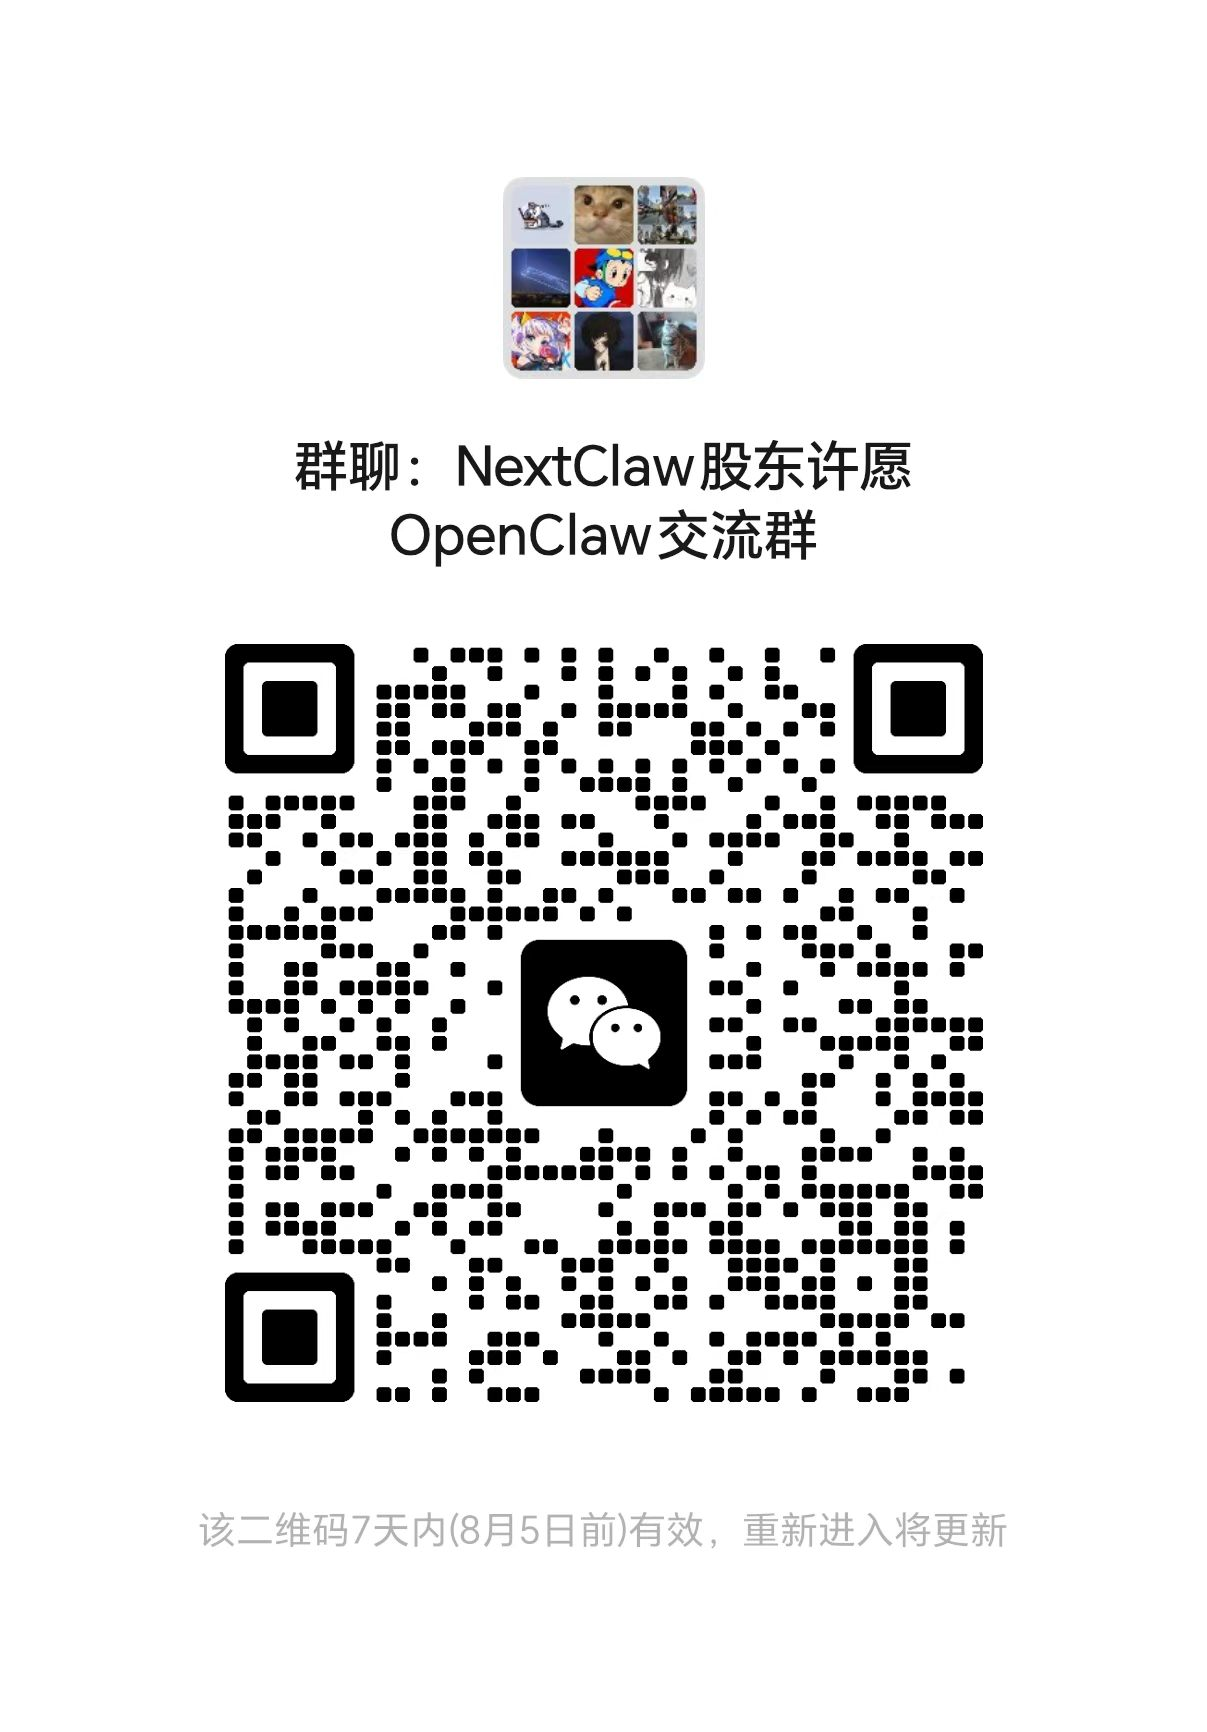
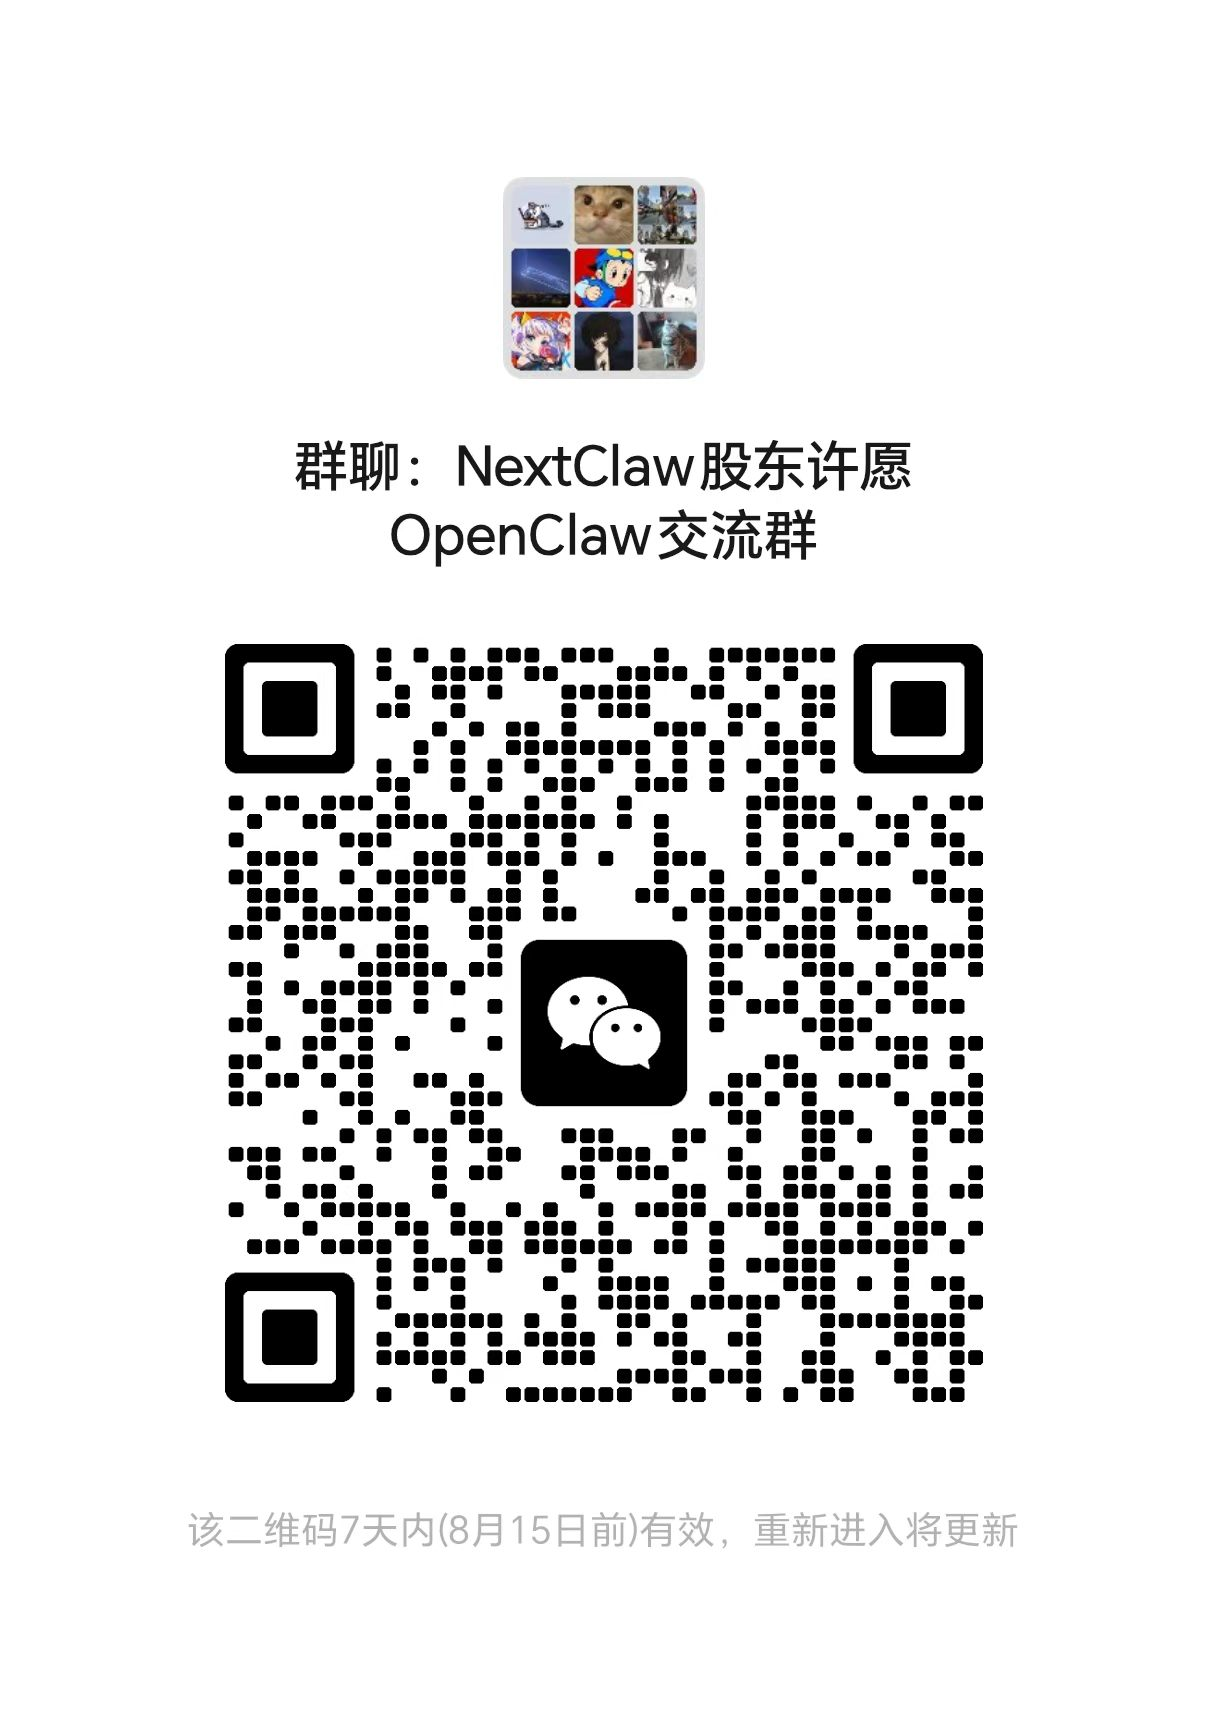
chore(website): refresh WeChat group QR code

diff --git a/apps/landing/src/shared/lib/landing-content/landing-route.utils.ts b/apps/landing/src/shared/lib/landing-content/landing-route.utils.ts
@@ -38,7 +38,7 @@ export const LINKS: Record<'github' | 'npm' | 'discord' | 'wechatGroupImage', st
   github: 'https://github.com/Peiiii/nextclaw',
   npm: 'https://www.npmjs.com/package/nextclaw',
   discord: 'https://discord.gg/j4Skbgye',
-  wechatGroupImage: '/contact/nextclaw-contact-wechat-group-2026-07-29.png',
+  wechatGroupImage: '/contact/nextclaw-contact-wechat-group-2026-08-08.png',
   docs: {
     en: 'https://docs.nextclaw.io/en/',
     zh: 'https://docs.nextclaw.io/zh/'

diff --git a/docs/logs/v0.26.68-wechat-group-qr-refresh/README.md b/docs/logs/v0.26.68-wechat-group-qr-refresh/README.md
@@ -1,0 +1,40 @@
+# v0.26.68 微信群二维码更新
+
+## 迭代完成说明
+
+- 使用 2026-08-08 用户提供的最新微信群二维码替换现有对外联系素材。
+- 通过仓库统一入口 `pnpm run assets:update-wechat-qr` 同步 GitHub README 稳定资源、官网稳定镜像和官网日期化缓存资源，未引入第二套更新逻辑。
+- GitHub 中英文 README 继续引用 `images/contact/nextclaw-contact-wechat-group.png`；官网改为引用 `/contact/nextclaw-contact-wechat-group-2026-08-08.png`。
+- 旧日期资源保留为未引用的历史素材，避免破坏已发布页面或外部缓存中的旧链接。
+
+## 测试/验证/验收方式
+
[1 lines of base64/hex data omitted]
+- 人工查看同步后的 GitHub 稳定资源，确认二维码、群名称和有效期说明完整，没有裁切或损坏。
+- 检查 `README.md`、`README.zh-CN.md` 与官网内容配置，确认 GitHub 使用稳定路径、官网使用 2026-08-08 日期化路径。
+- `pnpm --filter @nextclaw/landing tsc` 通过。
+- `pnpm --filter @nextclaw/landing lint` 通过（0 个错误；`apps/landing/src/main.ts` 保留 2 个与本次无关的既有文件长度警告）。
+- `pnpm --filter @nextclaw/landing build` 通过；仅有既有 Browserslist 数据过期提示。
+- 通过隔离的 Vite preview 对 `http://127.0.0.1:5196/zh/` 做真实页面冒烟：首页返回 200，二维码资源返回 200、类型为 `image/png`，浏览器确认图片加载完成、原始尺寸为 `1207 × 1732`、页面渲染尺寸为 `160 × 160`。
+
+## 发布/部署方式
+
+- 本轮本地仓库资源、引用和迭代记录随当前本地提交纳入版本历史；未推送、未部署线上官网。
+- 后续完成相应提交、推送与官网发布后，GitHub README 和官网才会公开使用本次二维码。
+- 不涉及数据库迁移、运行时更新或 NPM 包发布。
+
+## 用户/产品视角的验收步骤
+
+1. 打开 GitHub 中文或英文 README 的微信群区域，确认展示新的“NextClaw 股东许愿 OpenClaw 交流群”二维码。
+2. 打开官网中文页面的社区区域，确认二维码能正常加载，且请求地址包含 `nextclaw-contact-wechat-group-2026-08-08.png`。
+3. 在二维码标注的有效期内（2026-08-15 前）使用微信扫码，确认能够进入对应群聊流程。
+
+## 可维护性总结汇总
+
+- 复用仓库既有二维码同步脚本作为唯一资源 owner，一次生成 GitHub 稳定资源、官网稳定镜像和官网日期化资源，避免人工多点复制导致漂移。
+- 生产源码仅替换一条资源路径，新增 1 行、删除 1 行、净增 0 行；未新增分支、抽象、组件或运行链路。
+- 新增文件仅为日期化静态图片与本次迭代记录，属于缓存刷新和交付留痕，不增加生产逻辑维护面。
+
+## NPM 包发布记录
+
+- 不涉及 NPM 包发布；本次为官网与 GitHub 外部联系素材更新。
